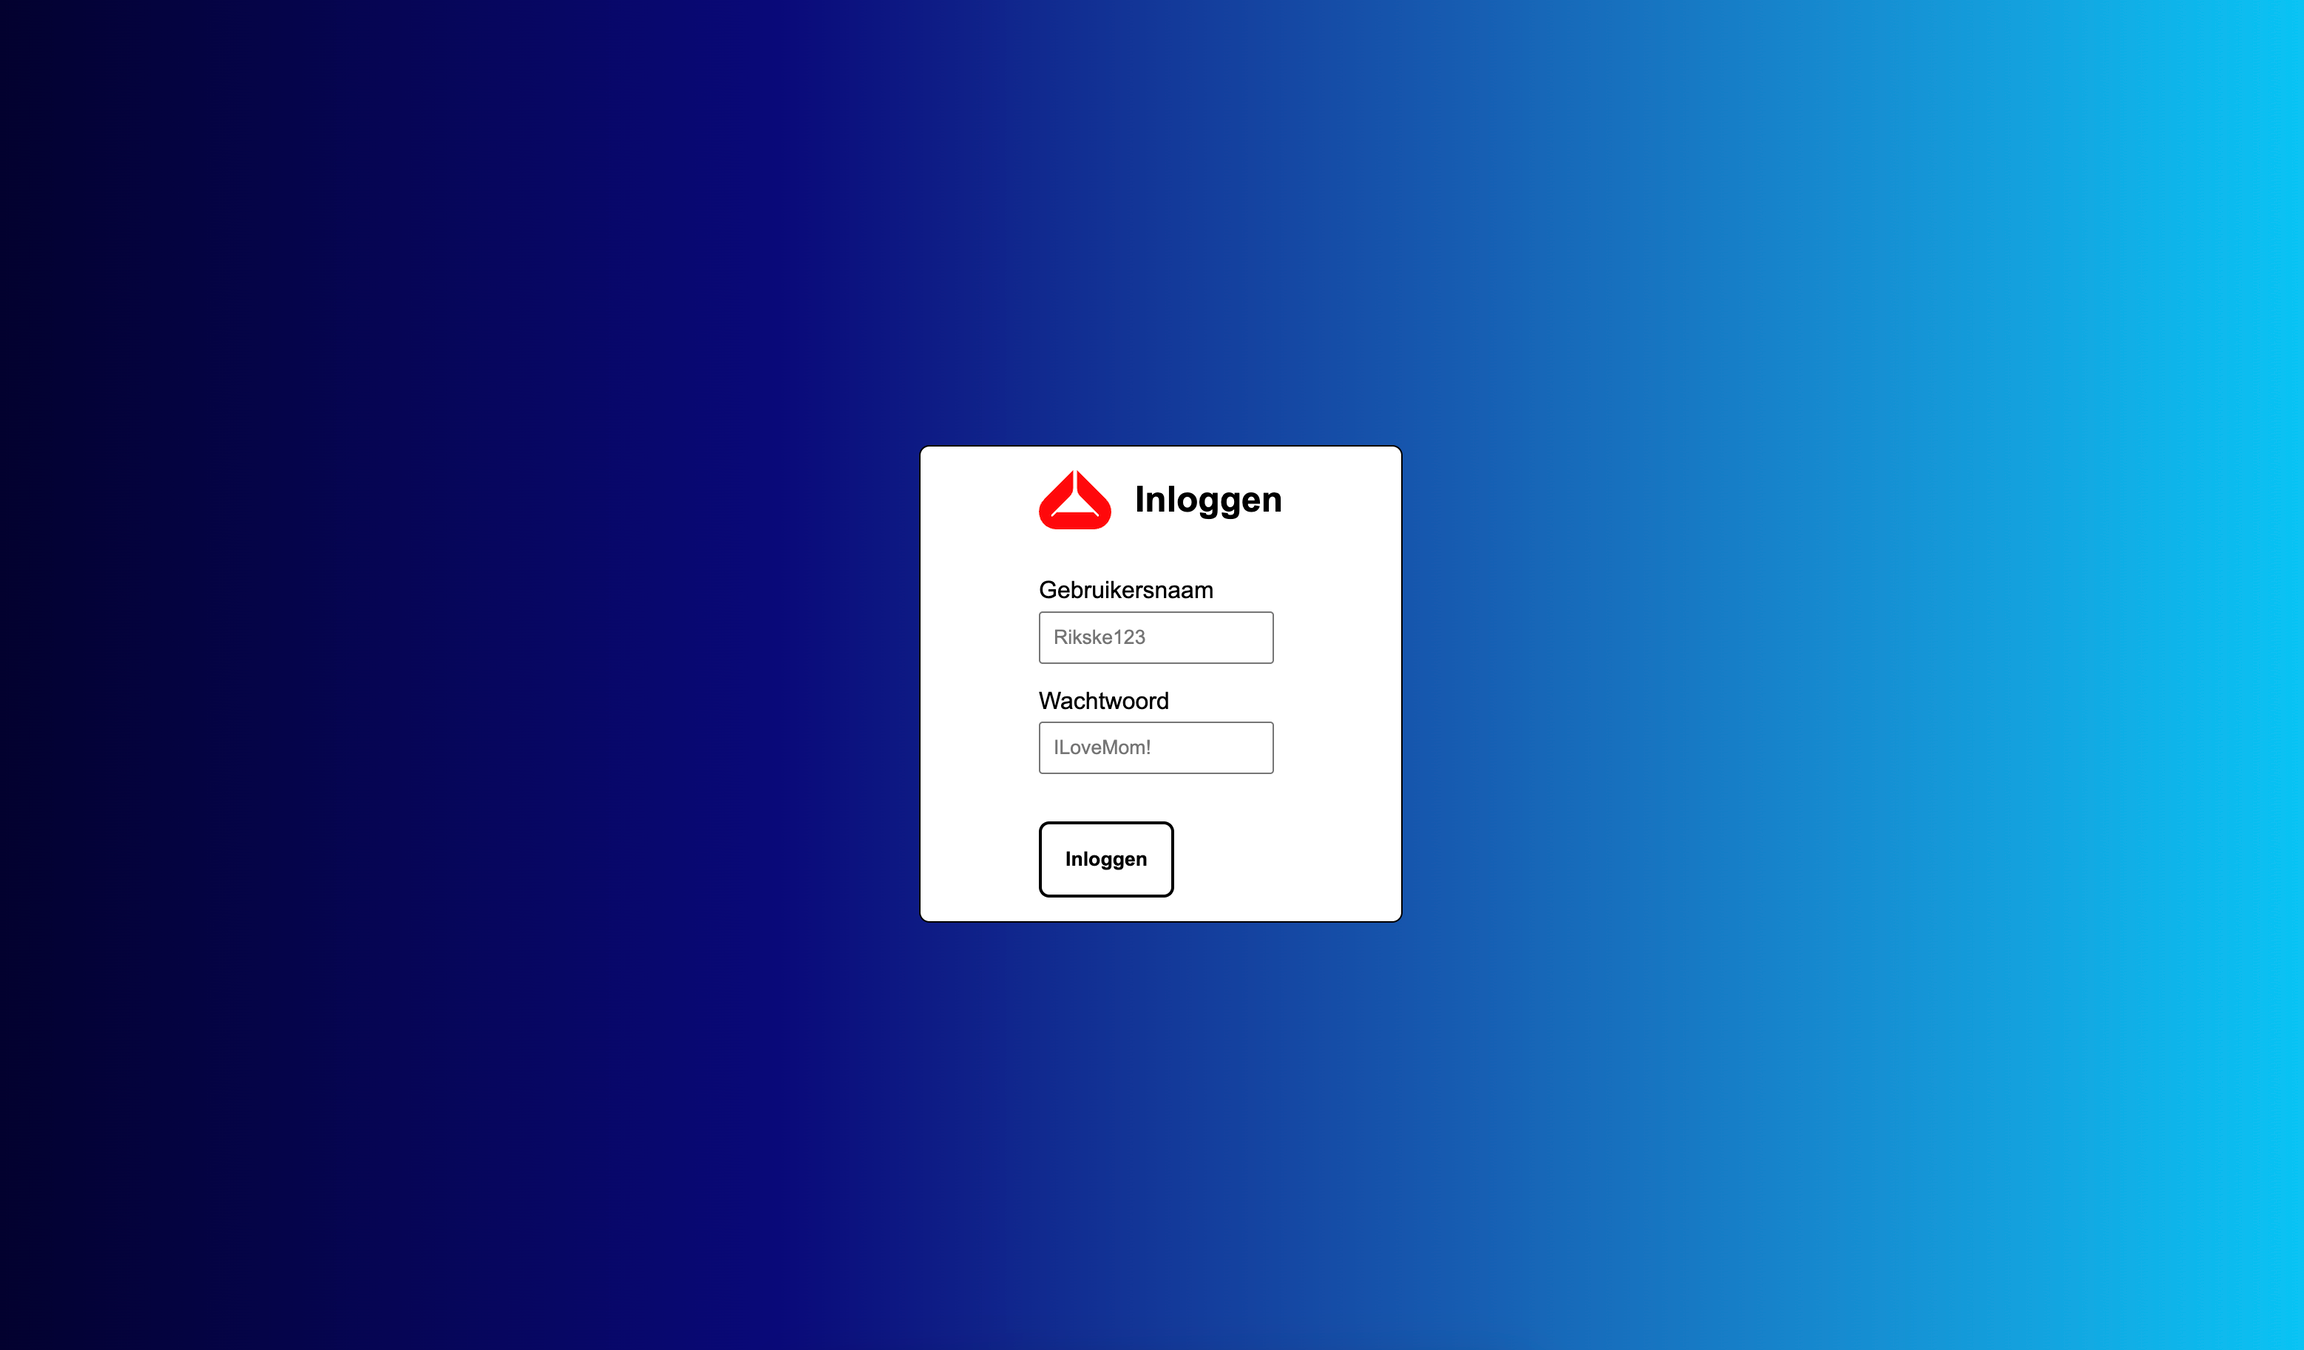
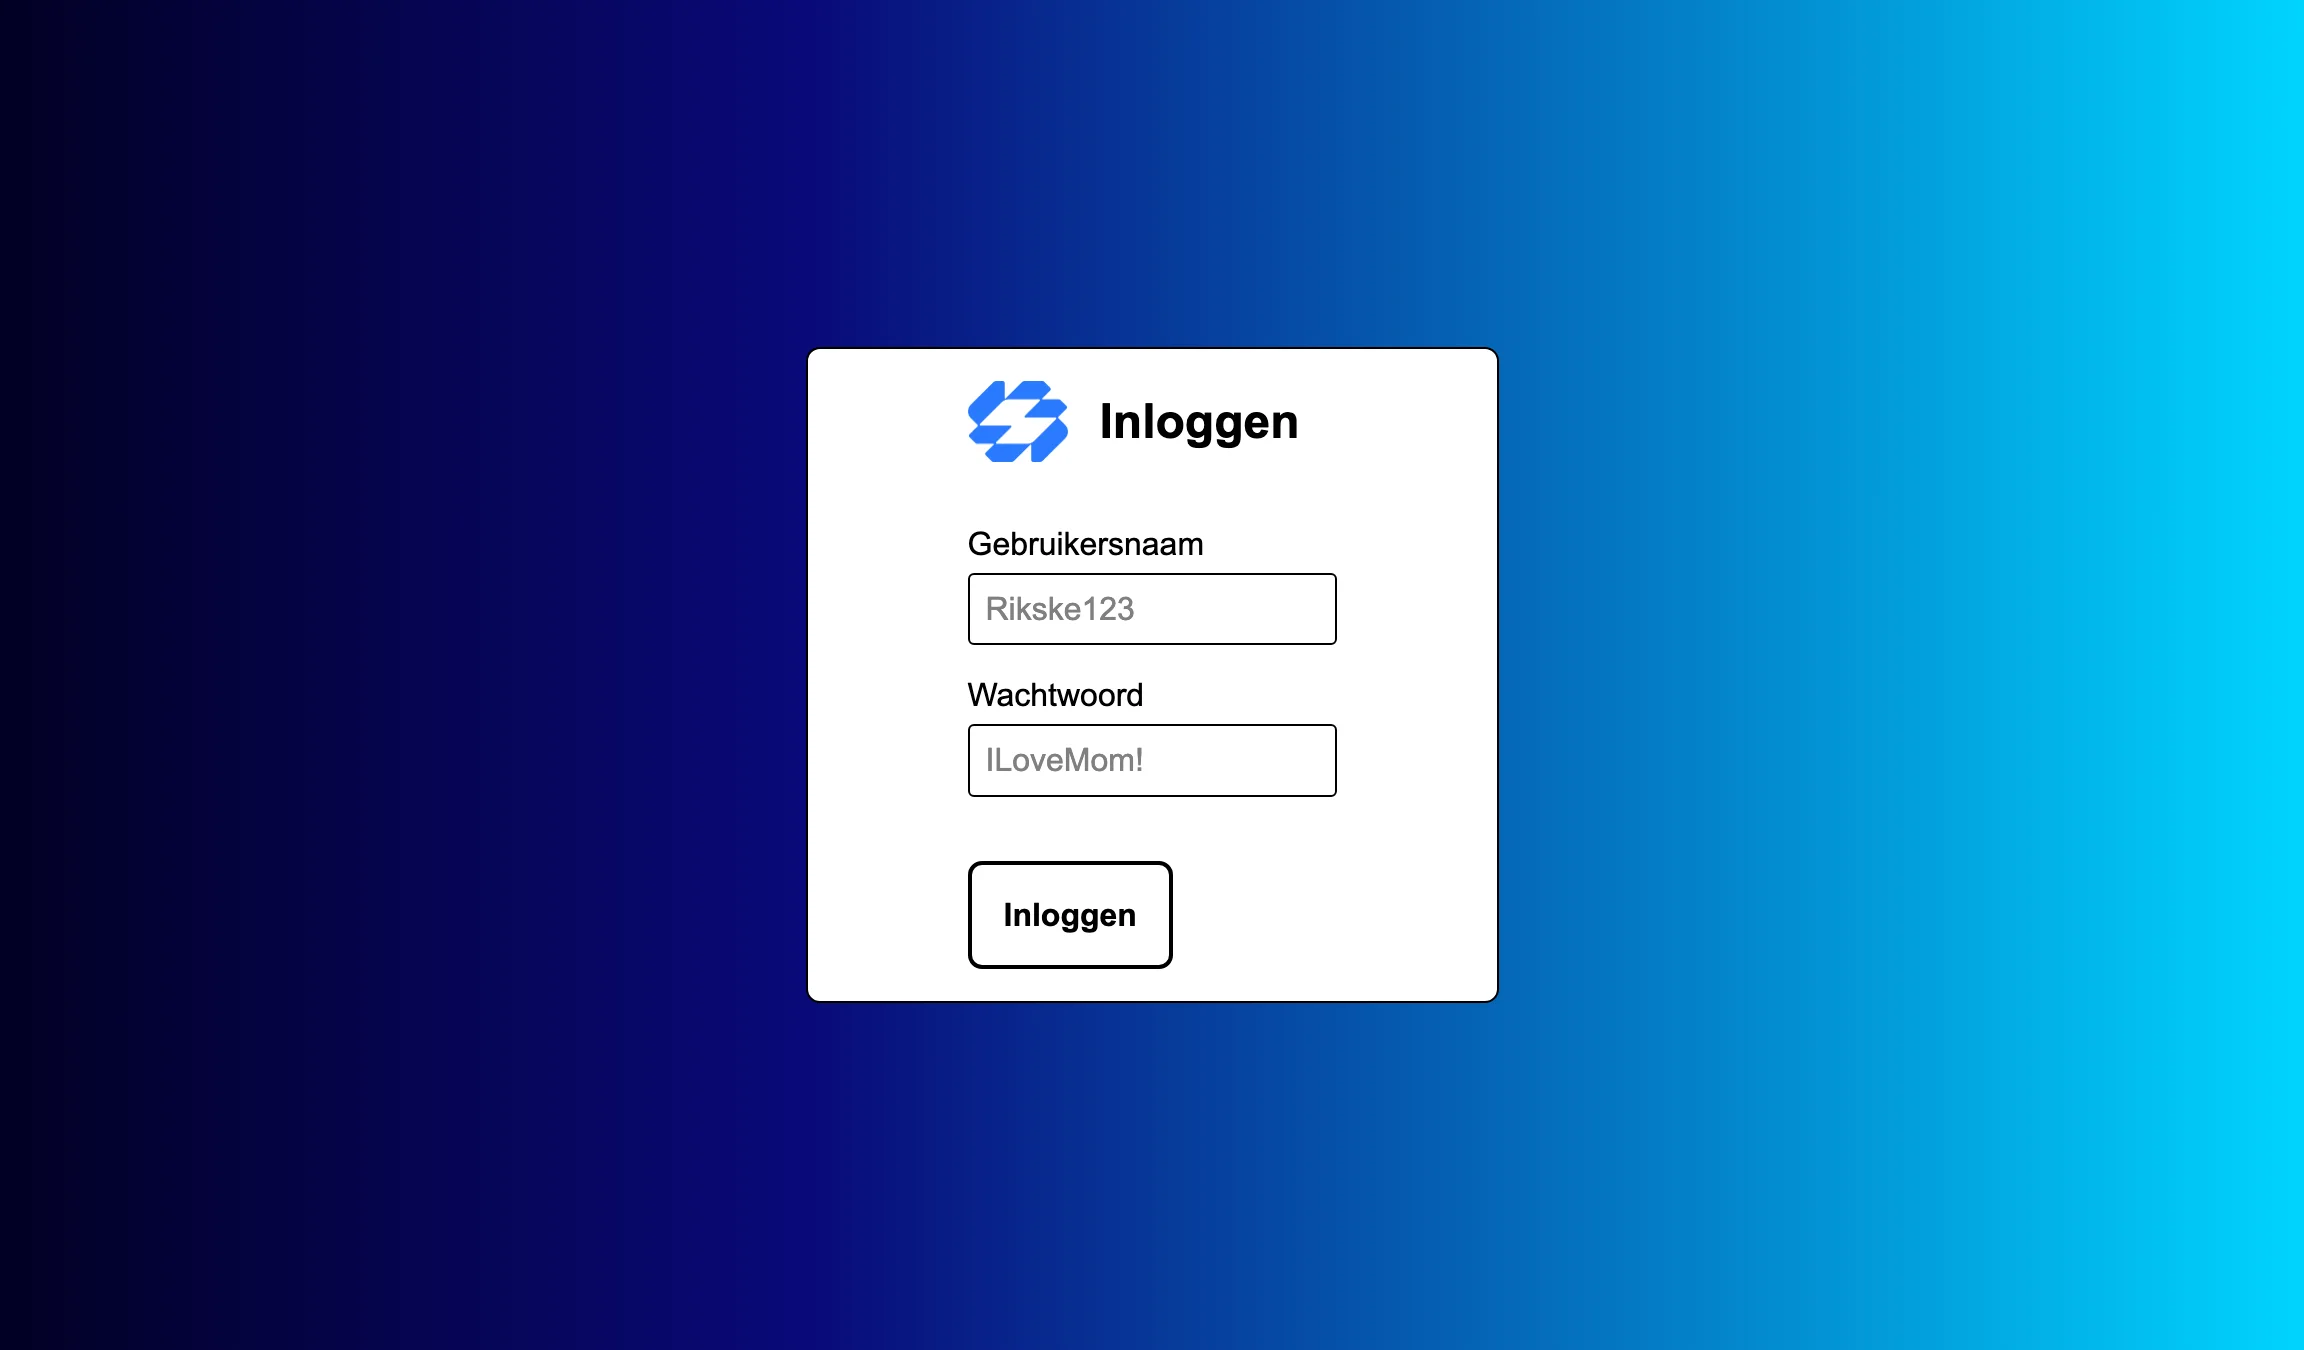
Sync from monorepo commit: 80b6dade63972141c11d702db0e0d4885729522b

Changed region(s): [[0.3438, 0.2489, 0.6562, 0.7467], [0.5312, 0.5289, 0.5625, 0.56], [0.5312, 0.4667, 0.5625, 0.4978]]

diff --git a/event-registration/README.md b/event-registration/README.md
@@ -2,6 +2,8 @@
 
 Maak een volledig functioneel en responsief registratieformulier voor een tech-conferentie. Dit formulier moet alle geleerde concepten over formulieren en styling combineren.
 
+Kopieer je oplossing van **Username & Password** als vertrekpunt en bouw daarop verder. Behoud de header met het logo en pas de titel aan.
+
 ## Onderdelen van het formulier
 
 - **Persoonlijke Gegevens:**
@@ -12,6 +14,7 @@ Maak een volledig functioneel en responsief registratieformulier voor een tech-c
   - Datum van deelname (date, verplicht)
   - Ticket type (radiobuttons: Early Bird, Regular, VIP)
   - Workshops (checkboxes: Web Design, Backend, DevOps)
+  - Hoe heb je ons gevonden? (select: Via een collega, Social media, Nieuwsbrief, Andere)
 - **Extra Info:**
   - Profielfoto (file upload)
   - Extra opmerkingen (textarea)
@@ -26,10 +29,15 @@ Maak een volledig functioneel en responsief registratieformulier voor een tech-c
   - Zorg ervoor dat het formulier maximaal 800px breed is en gecentreerd staat op de pagina.
   - Gebruik de algemene layout (witte container, gradient achtergrond, padding).
 - **CSS Pseudo-classes:**
-  - Geef visuele feedback met `:valid` en `:invalid` (bijv. een groene of rode border).
-  - Gebruik `:focus` om het actieve veld te accentueren met een paarse outline.
+  - Geef visuele feedback met `:valid` en `:invalid` (bijv. een groene of rode border). Pas deze enkel toe op de tekstuele invoervelden (`text`, `email`, `password`, `date` en de `textarea`). Zet je ze op `input` in het algemeen, dan kleurt ook je file-upload groen, want een niet-verplicht veld is altijd geldig.
+  - Herlaad daarna je pagina en kijk naar het resultaat: alle lege verplichte velden staan meteen rood, nog voor je iets getypt hebt. Vervang `:valid` en `:invalid` vervolgens door `:user-valid` en `:user-invalid` en herlaad opnieuw. Beschrijf in een commentaar in je CSS wat het verschil is.
+  - Gebruik `:focus` om het actieve veld te accentueren met een paarse `outline`. Verwijder de standaard outline niet zonder er een eigen outline voor in de plaats te zetten, anders zien toetsenbordgebruikers niet meer waar ze zijn.
   - Gebruik `:required` om de labels van verplichte velden subtiel te markeren (bijv. een rood sterretje `*` via een `::after` pseudo-element).
   - De submit button moet een hover effect hebben.
 - **Toegankelijkheid:**
-  - Elk invoerveld **moet** een bijbehorend `<label>` hebben dat correct gelinkt is via het `for` en `id` attribuut.
+  - Elk invoerveld **moet** een bijbehorend `<label>` hebben dat correct gelinkt is via het `for` en `id` attribuut. Dit geldt ook voor elke afzonderlijke radiobutton en checkbox: die krijgen dus allemaal een eigen `id`.
   - Gebruik `<fieldset>` en `<legend>` om logische groepen te maken (bijv. voor Ticket type en Workshops).
+
+## Verwacht resultaat
+
+![event-registration](./opgave.webp)

diff --git a/username-password/README.md b/username-password/README.md
@@ -10,8 +10,8 @@ Maak een formulier waarin de gebruiker een gebruikersnaam en wachtwoord kan invo
 - Geef elke input een gepaste placeholder value.
 - Geef het formulier een header met een logo en een titeltje. Je kunt [LogoIpsum](https://logoipsum.com/) gebruiken om een willekeurig logootje te linken. Zorg ervoor dat deze verticaal uitgelijnd zijn.
 - Zorg ervoor dat de button en de inputs een mooie opmaak krijgen:
-  - Voorzie een padding van 0.5rem.
-  - Voorzie een 2px volle zwarte border met een border-radius van 7px.
+  - Geef de inputs een padding van 0.5rem, een 1px volle zwarte border en een border-radius van 3px.
+  - Geef de button een padding van 1rem, een 2px volle zwarte border en een border-radius van 7px.
   - Wanneer de gebruiker over de input of button hovert en wanneer de focus in de input staat, moet de input een paarse outline krijgen. Zorg voor dezelfde border-radius als de gewone border.
 
 ## Verwacht resultaat
